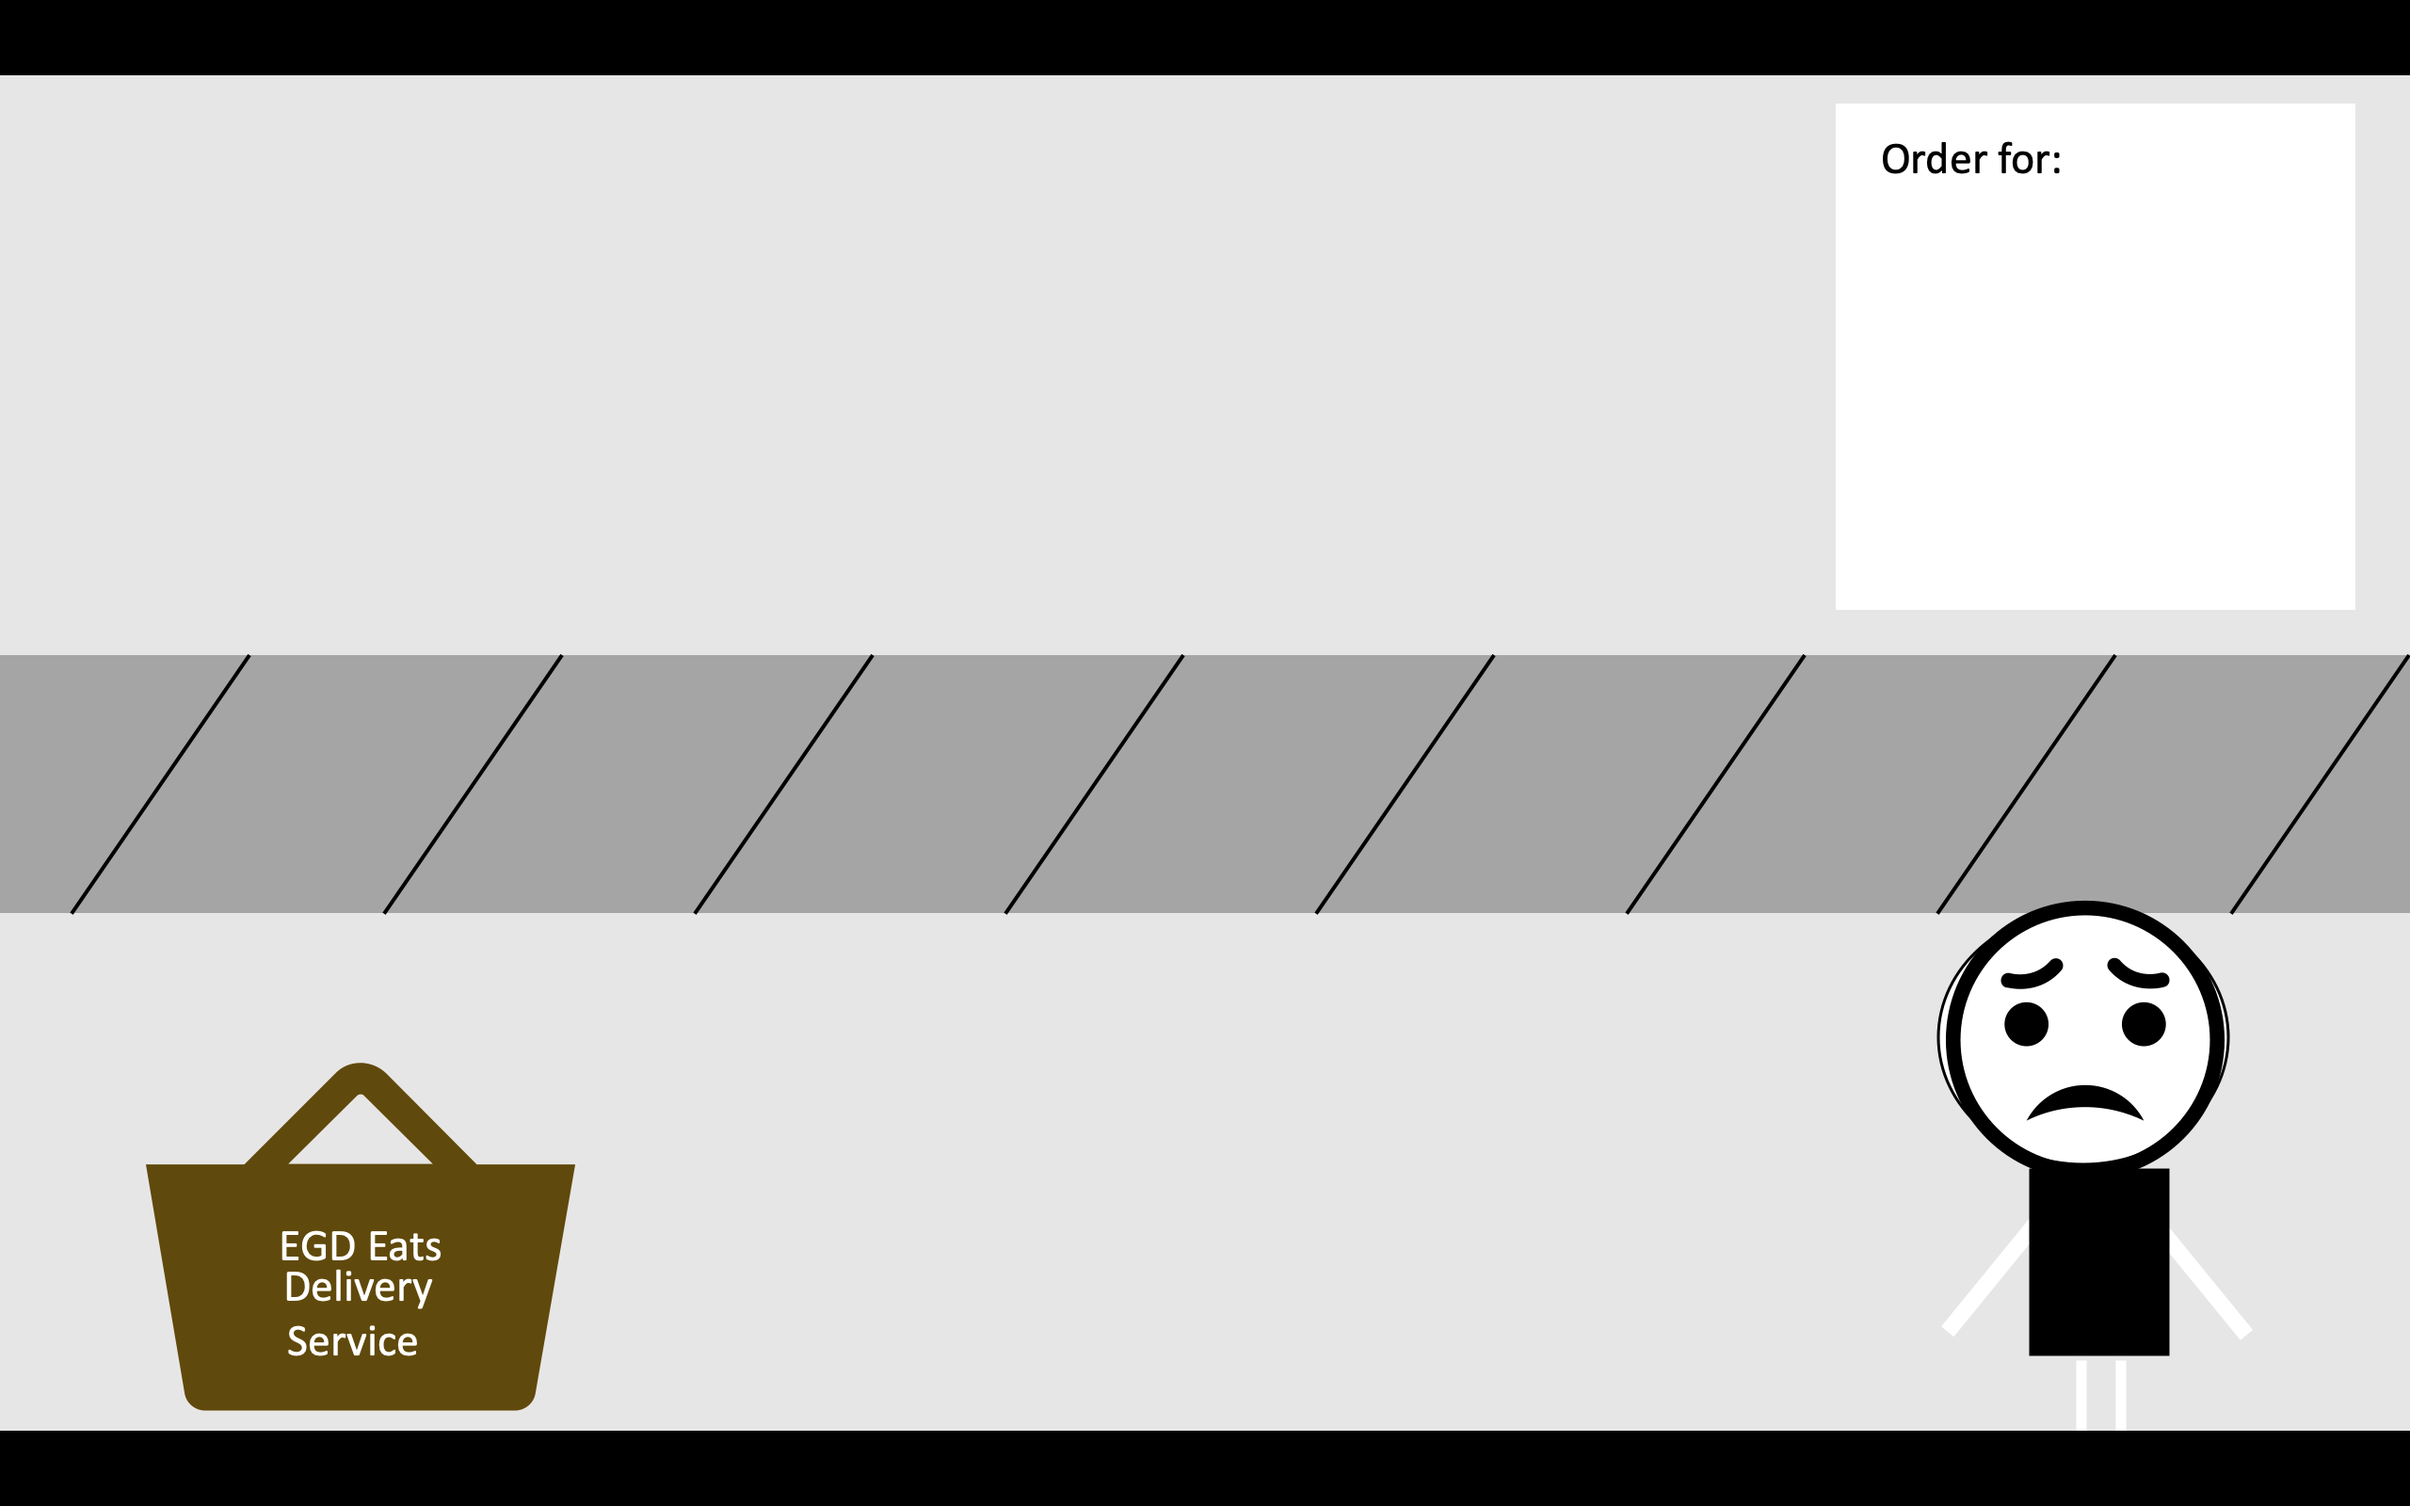
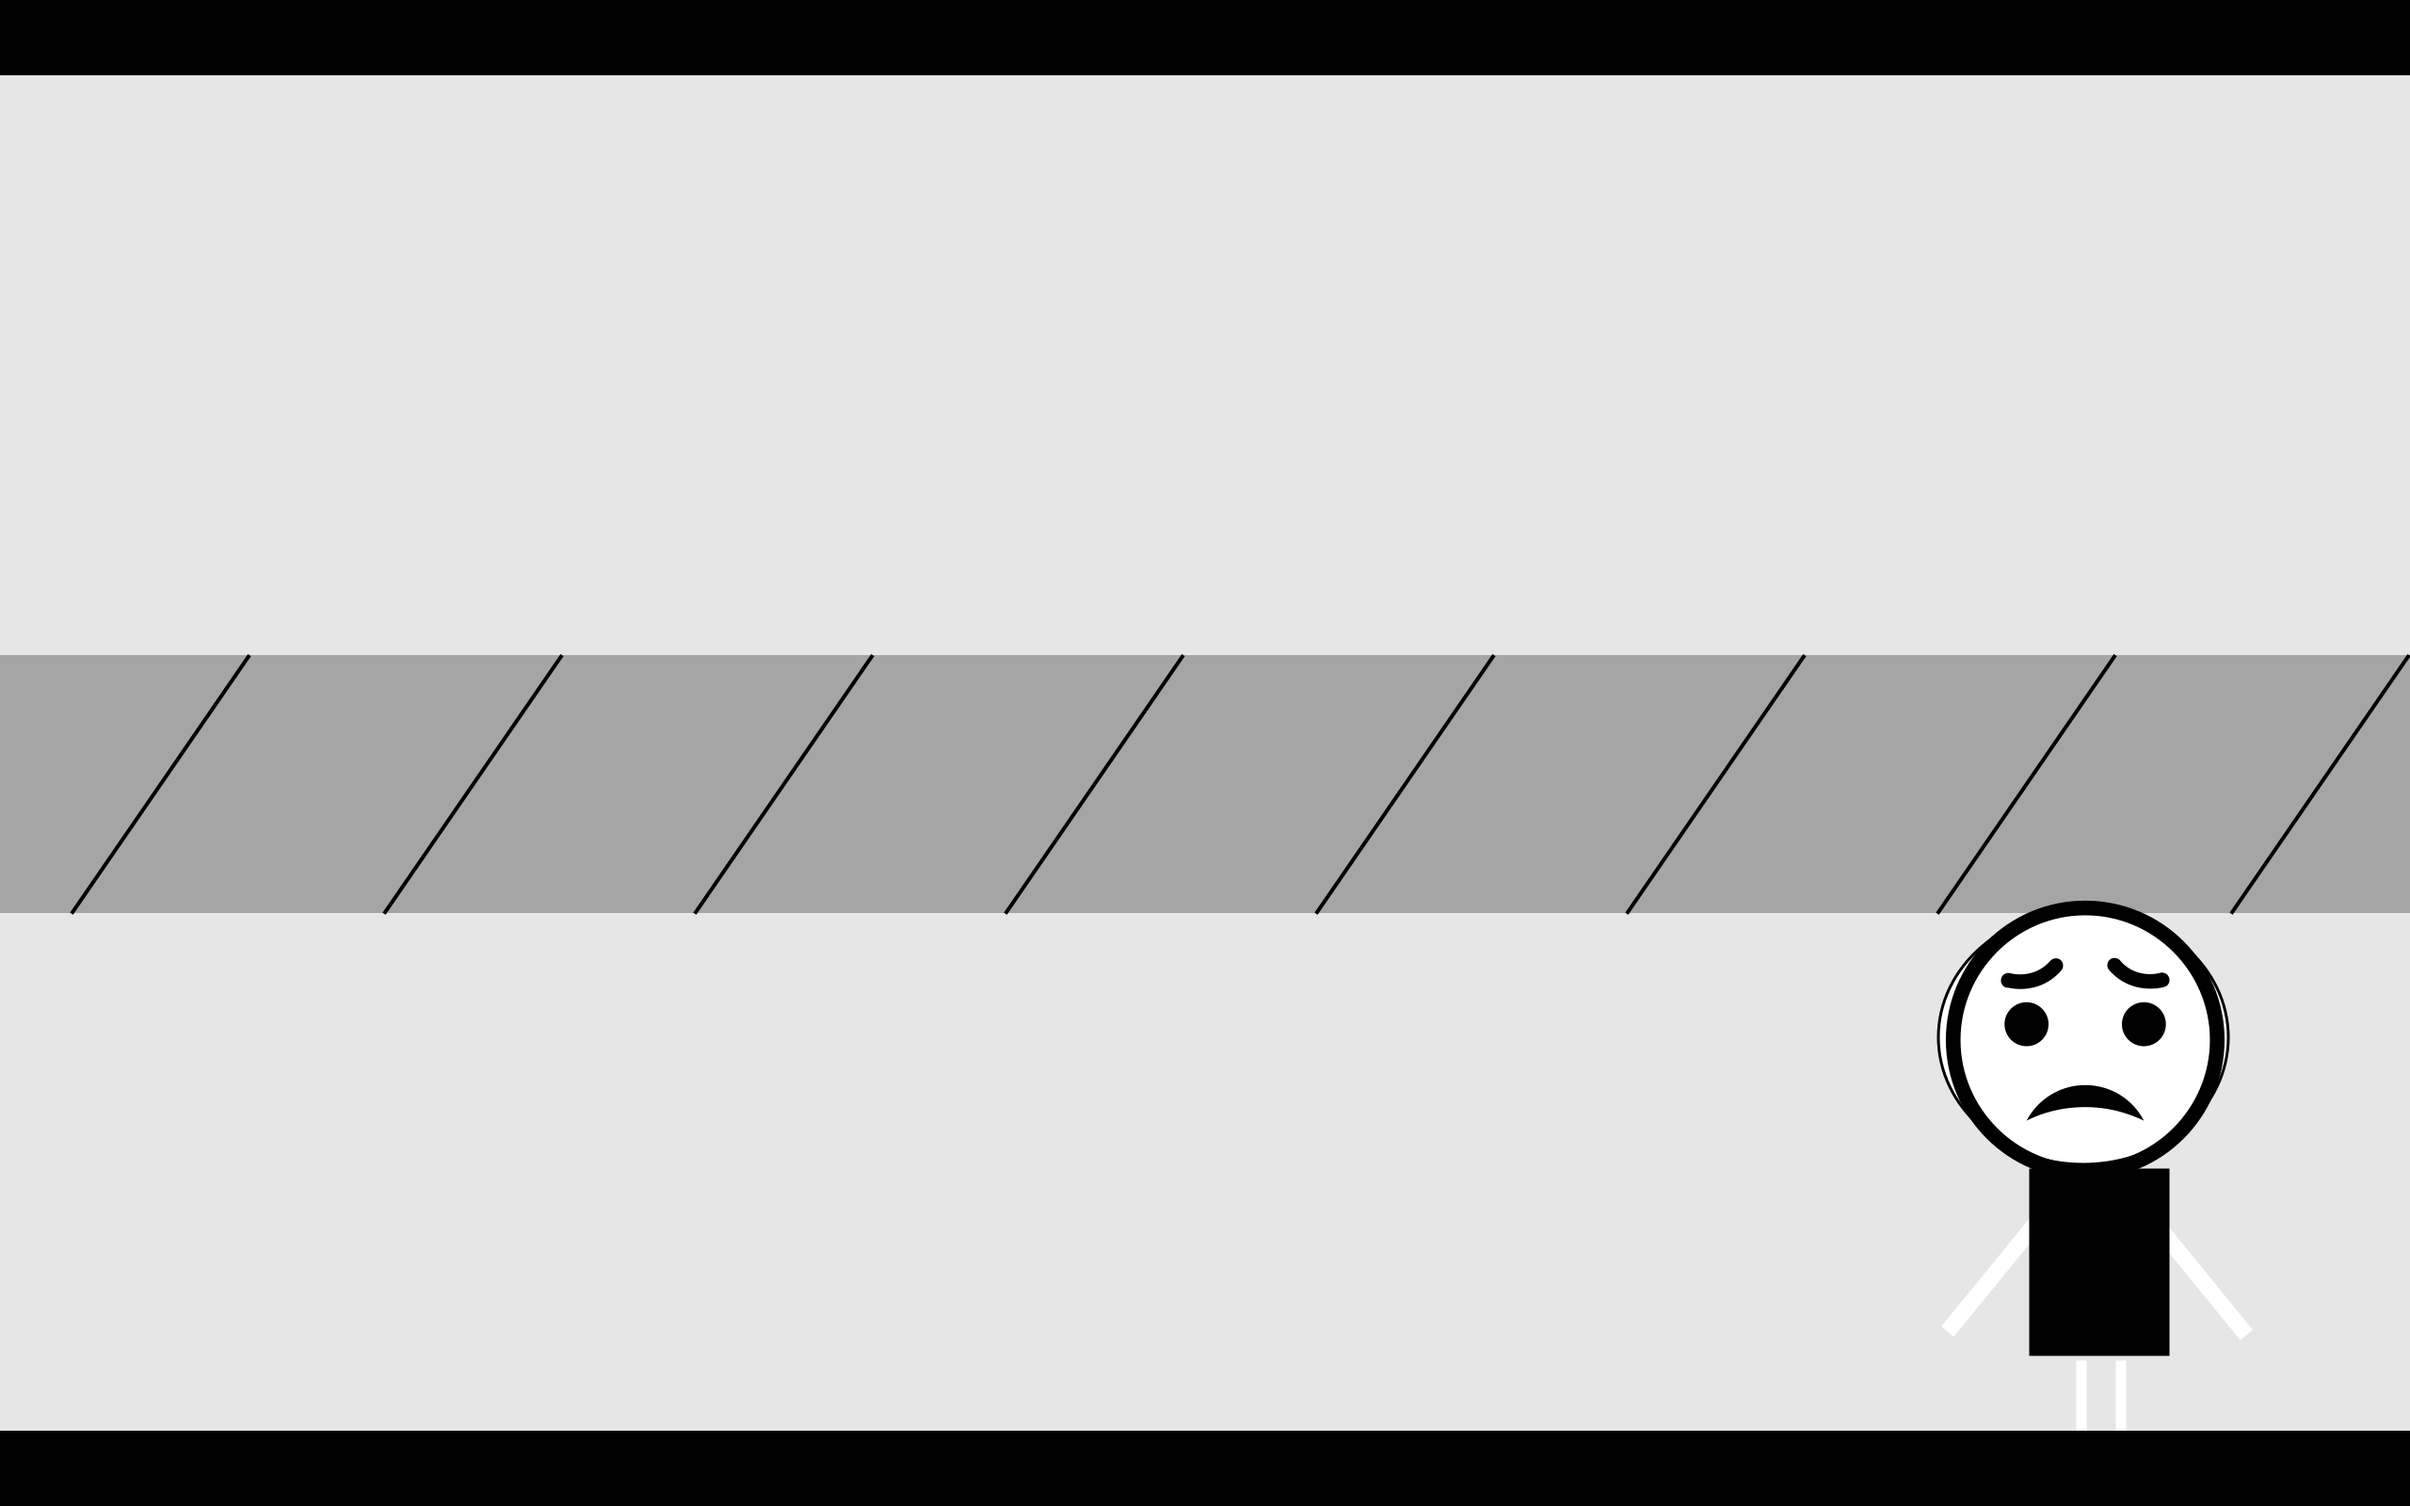
changes updated

Changed region(s): [[0.75, 0.0625, 1.0, 0.4062], [0.0625, 0.6875, 0.25, 0.9375]]

diff --git a/src/scripts/scenes/deliveryScene.ts b/src/scripts/scenes/deliveryScene.ts
@@ -23,6 +23,7 @@ import { GameObjects } from 'phaser';
 
 export default class DeliveryScene extends Phaser.Scene {
   private deliveryscene;
+  private orderscene;
   private tomato: any;
   /* private carrot: food;
   private lettuce: food;
@@ -56,8 +57,11 @@ export default class DeliveryScene extends Phaser.Scene {
   }
 
   create() {
-    this.deliveryscene = this.add.image(0,0, "deliveryscene");
-    this.deliveryscene.setOrigin(0,0);
+    //this.deliveryscene = this.add.image(0,0, "deliveryscene");
+    //this.deliveryscene.setOrigin(0,0);
+
+    this.orderscene = this.add.image(0,0, "orderscene");
+    this.orderscene.setOrigin(0,0);
   
     //Non-Food Related Items
     this.bag = this.add.image(this.scale.width / 2 - 900, this.scale.height / 2 + 400, "bag").setInteractive();

diff --git a/src/scripts/scenes/preloadScene.ts b/src/scripts/scenes/preloadScene.ts
@@ -7,7 +7,7 @@ export default class PreloadScene extends Phaser.Scene {
 
     //Scenes
     this.load.image("deliveryscene", "assets/images/deliveryscene.png");
-    this.load.image("orderscene", "assets/images/orderscene.png");
+    this.load.image("orderscene", "assets/images/orderScene.png");
 
     //Vegetables
     this.load.image("tomato", "assets/images/tomato.png");
